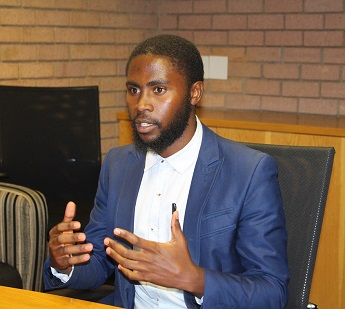
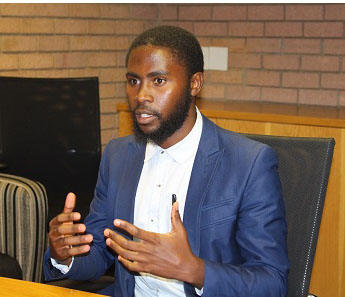
editing the main page

diff --git a/src/components/Intro.js b/src/components/Intro.js
@@ -1,8 +1,8 @@
 import React from 'react'
 import styled from 'styled-components'
 import {motion} from 'framer-motion'
-import Me from '../assets/Images/profile.jpg'
-
+import Me from '../assets/Images/chamanox.JPG'
+import "./intro.css";
 
 const Box = styled(motion.div)`
 
